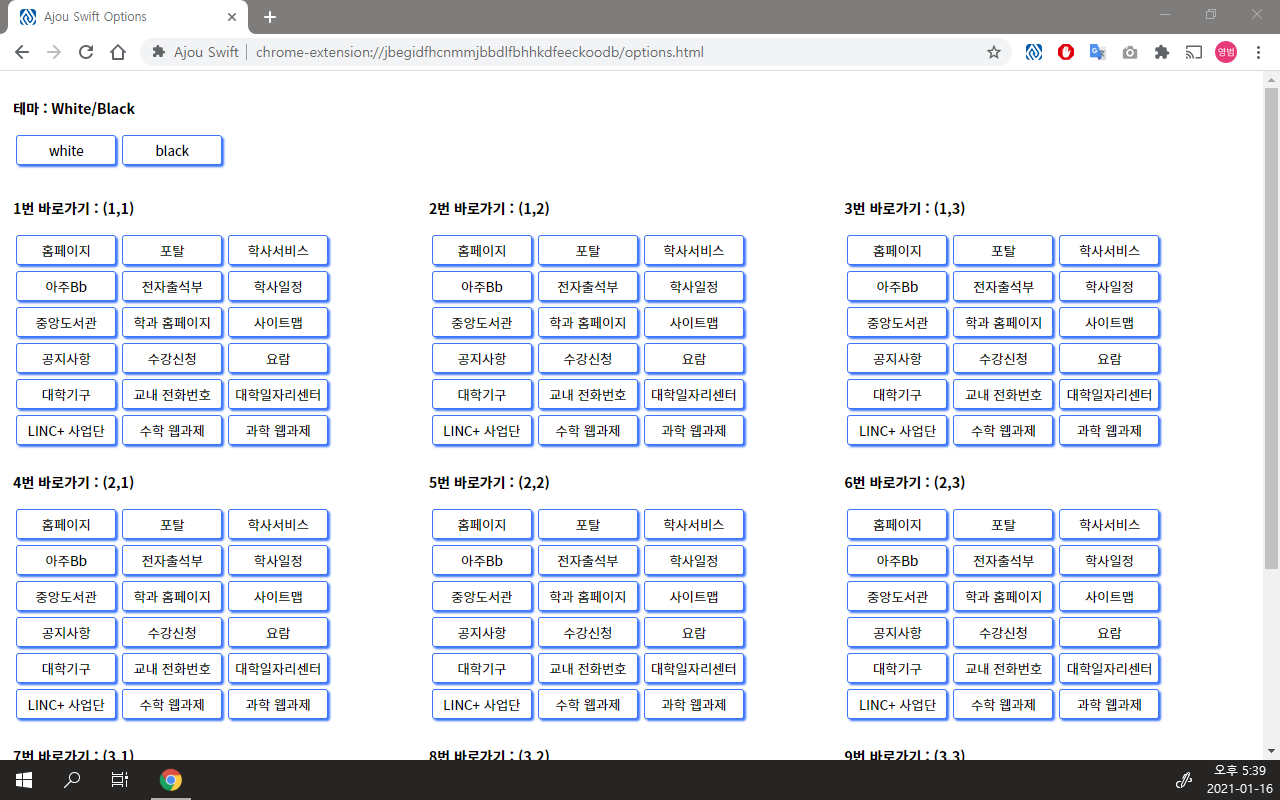
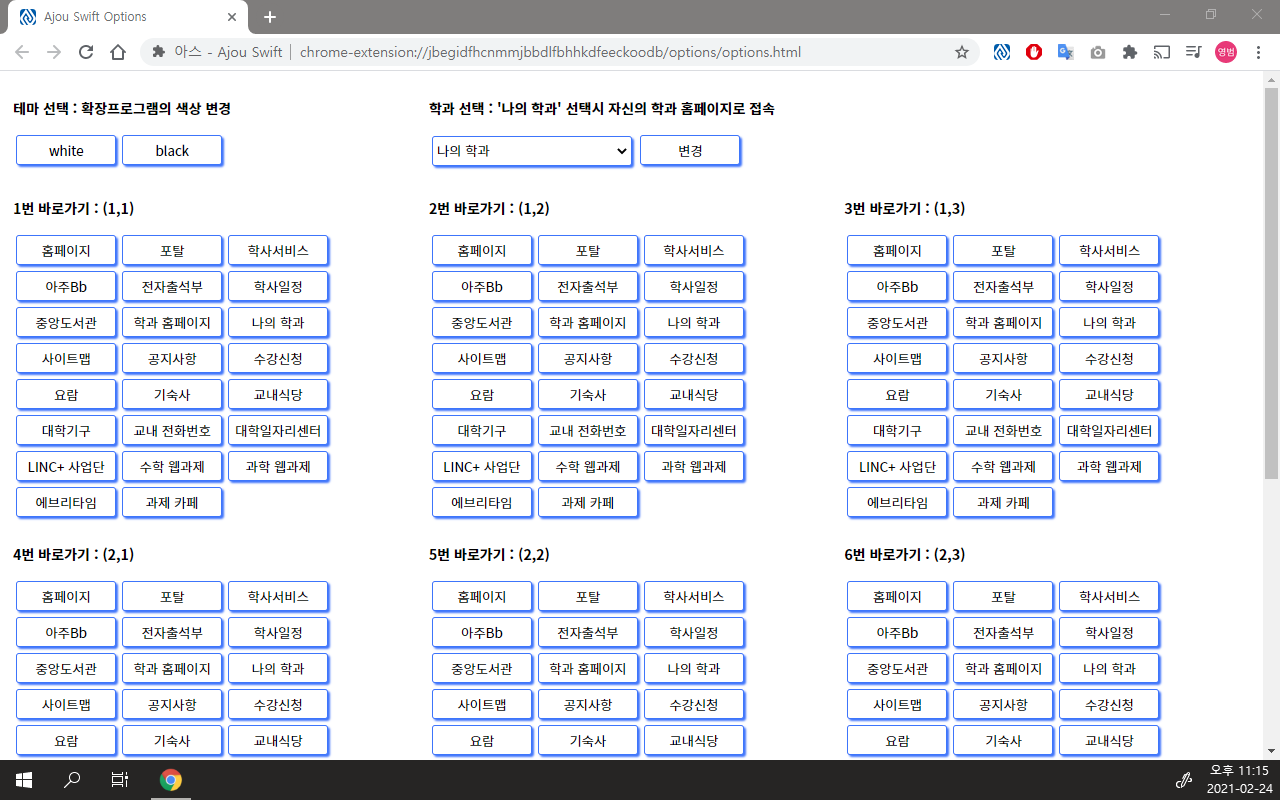
Update Ajou-Swift

diff --git a/README.md b/README.md
@@ -15,7 +15,7 @@
 
 손쉽게 크롬에 추가하여 검색 기능, 페이지 바로가기 기능, 중요 학사일정 안내 기능을 이용하실 수 있습니다.
 
-총 18개의 웹 페이지를 제공하며, 아이콘을 우클릭 후 옵션탭을 통해 9개의 페이지를 선택할 수 있습니다.
+총 23개의 웹 페이지를 제공하며, 아이콘을 우클릭 후 옵션탭을 통해 9개의 페이지를 선택할 수 있습니다.
 
 제공 페이지는 다음과 같습니다.
 
@@ -27,16 +27,21 @@
 - 학사일정
 - 중앙도서관
 - 학과 홈페이지
+- 나의 학과
 - 사이트맵
 - 공지사항
 - 수강신청
 - 요람
+- 기숙사
+- 교내 식당
 - 대학기구
 - 교내 전화번호
 - 대학일자리센터
 - LINC+ 사업단
 - 수학 웹과제
 - 과학 웹과제
+- 에브리타임
+- 과제 카페
 
 많은 이용바랍니다. 감사합니다!
 
@@ -56,6 +61,8 @@
 * 2021.01.18: 웨일 확장프로그램 스토어 등록
 * 2021.01.19: 크롬 확장프로그램 스토어 등록
 * 2021.01.20: 공식 출시
+* 2021.02.20: 바로가기 개수 추가
+* 2021.02.24: 나의 학과 추가
 
 # 저작권 표시
 <a rel="license" href="http://creativecommons.org/licenses/by/3.0/"><img alt="Creative Commons License" style="border-width:0" src="https://i.creativecommons.org/l/by/3.0/88x31.png" /></a><br />This work is licensed under a <a rel="license" href="http://creativecommons.org/licenses/by/3.0/">Creative Commons Attribution 3.0 Unported License</a>.
